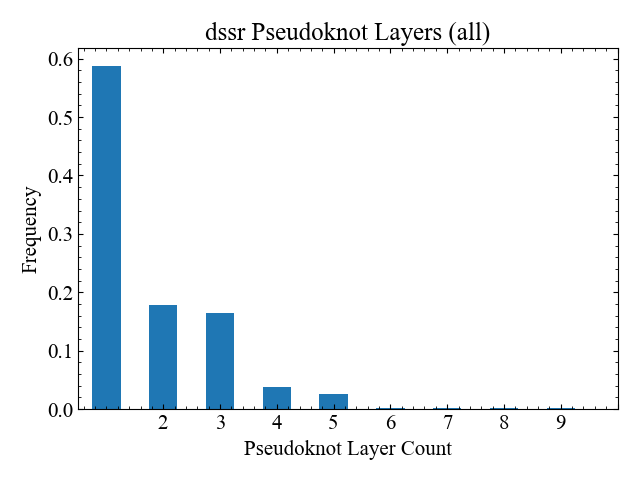
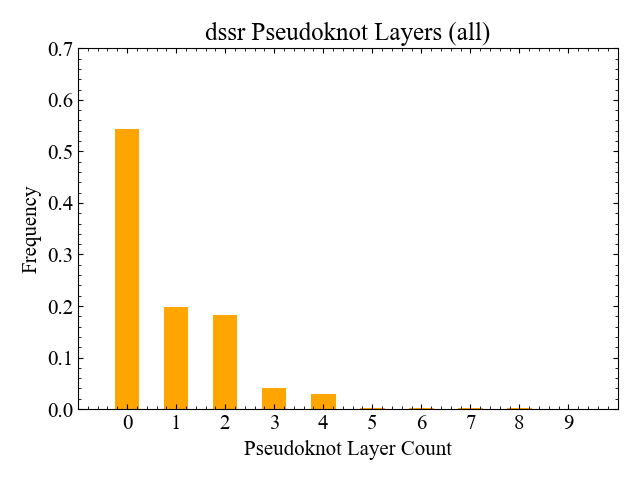
見た目をよくした

diff --git a/analysis/pseudoknotlayer_plotting.py b/analysis/pseudoknotlayer_plotting.py
@@ -77,11 +77,13 @@ for parser in parsers:
 
 for parser in parsers:
     for variant in ['canonical_only', 'all']:
+
+        total_bps, total_canonical_bps, total_noncanonical_bps = 0, 0, 0
+
         # JSON読み込み
         path = base_dir / f'pseudoknot_analysis_{parser}_{variant}.json'
         with open(path) as f:
             data = json.load(f)
-
         # layers --> pdb_id v.s. layer_id, canonical_bp_count, non_canonical_bp_count
         data_list = list()
         for item in data: # 各 pdb ごとに分解していく
@@ -92,6 +94,7 @@ for parser in parsers:
             if num_of_layers == 0:
                 # print(f"Warning: {pdb_id} has no pseudoknot layers.")
                 num_of_layers = 1  # レイヤーがない場合は1とみなす
+                continue  # レイヤーがない場合はスキップ...
             canonical_bp_in_main_layer = 0
             non_canonical_bp_in_main_layer = 0
             canonical_bp_in_pk_layer = 0
@@ -116,6 +119,10 @@ for parser in parsers:
                     "non_canonical_bp_in_pk_layer": non_canonical_bp_in_pk_layer,
                 }
             )
+            total_bps += total_bp_count
+            total_canonical_bps += canonical_bp_in_main_layer + canonical_bp_in_pk_layer
+            total_noncanonical_bps += non_canonical_bp_in_main_layer + non_canonical_bp_in_pk_layer
+        print(f"Total BPs: {total_bps}, Total Canonical BPs: {total_canonical_bps}, Total Non-Canonical BPs: {total_noncanonical_bps}, for {parser} ({variant})")
         df = pd.DataFrame(data_list)
         df = df.set_index("pdb_id")
         # print(f"DataFrame for {parser} ({variant}):\n", df.head())
@@ -123,6 +130,7 @@ for parser in parsers:
         # (a) トップレイヤーにcanonicalがあるか の円グラフ
         if variant == "all":
             df['is_multilayer'] = df["num_of_layers"] > 1 # 元々 multilayer かどうかの場合分けで、2 通り plotting
+            print(f"number of multilayer structures: {df['is_multilayer'].sum()} out of {len(df)} total structures, for {parser} ({variant})")
 
             for multilayer in [True, False]:
                 if multilayer:
@@ -163,10 +171,16 @@ for parser in parsers:
         # (b) pseudoknot layer 数の頻度棒グラフ
         freq = df['num_of_layers'].value_counts(normalize=True).sort_index()
         plt.figure()
-        freq.plot.bar()
-        plt.xlabel('Pseudoknot Layer Count')
-        plt.xticks([int(x) for x in freq.index], rotation=0)
+        ax = freq.plot.bar( color = "orange")
+        ax.set_xlabel('Pseudoknot Layer Count')
+        ax.set_xticks([int(x) for x in range(freq.index.max() + 1)])
+        ax.set_xticklabels([int(x) for x in (range(freq.index.max() + 1))], rotation=0  )
+        
+        ax.set_xlim(-1, freq.index.max()+1)  # x 軸の範囲を 0 から最大値に設定
+        # plt.xlim(0, 10)
         plt.ylabel('Frequency')
+        # y の表示領域を 0 から 0.7 に固定
+        plt.ylim(0, 0.7)
         plt.title(f'{parser} Pseudoknot Layers ({variant})')
         plt.tight_layout()
         fn = f'bar_pseudoknot_layers_{variant}.png'
